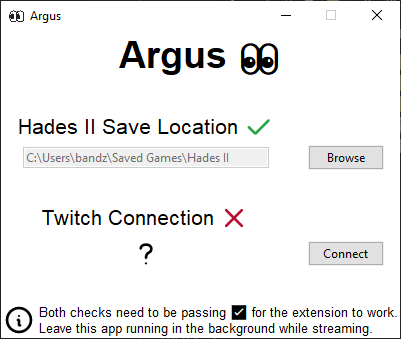
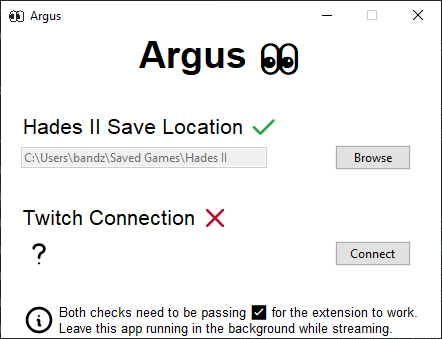
Preparing everything for installer. Slight GUI refactor

diff --git a/src/argus_gui.py b/src/argus_gui.py
@@ -75,7 +75,7 @@ def update_twitch_connection(success, argus_token, profile_pic):
         argus_gui_components.twitch_connect_label.config(
             image=argus_gui_components.x_icon, text="Twitch Connection"
         )
-        argus_gui_components.twitch_connect_button.config(text="Connect")
+        # argus_gui_components.twitch_connect_button.config(text="Connect")
         argus_observing.unset_argus_token()
 
 
@@ -146,26 +146,30 @@ def make_main_gui():
     argus_gui_components.root.rowconfigure(1, minsize=30)
 
     # save path text
-    argus_gui_components.save_path_label.grid(row=2, column=0)
+    argus_gui_components.save_path_label.grid(
+        row=2, column=0, columnspan=2, sticky="W", padx=20
+    )
 
     # save path inputs
-    argus_gui_components.save_path_entry.grid(row=3, column=0)
+    argus_gui_components.save_path_entry.grid(row=3, column=0, sticky="W", padx=20)
     check_save_location()
     argus_gui_components.save_path_browse_button.config(command=browse_save_location)
-    argus_gui_components.save_path_browse_button.grid(row=3, column=1)
+    argus_gui_components.save_path_browse_button.grid(row=3, column=1, padx=20)
 
     # empty row as a separator
     argus_gui_components.root.rowconfigure(4, minsize=30)
 
     # twitch connect text
-    argus_gui_components.twitch_connect_label.grid(row=5, column=0)
+    argus_gui_components.twitch_connect_label.grid(
+        row=5, column=0, columnspan=2, sticky="W", padx=20
+    )
 
     # twitch connect inputs
-    argus_gui_components.twitch_profile_label.grid(row=6, column=0)
+    argus_gui_components.twitch_profile_label.grid(row=6, column=0, sticky="W", padx=20)
     argus_gui_components.twitch_connect_button.config(
         command=async_handler(perform_twitch_connection)
     )
-    argus_gui_components.twitch_connect_button.grid(row=6, column=1)
+    argus_gui_components.twitch_connect_button.grid(row=6, column=1, padx=20)
 
     # empty row as a separator
     argus_gui_components.root.rowconfigure(7, minsize=30)
@@ -205,6 +209,7 @@ def make_update_gui(changelog):
 def open_update_page():
     update_page = "https://github.com/bmilojkovic/argus-h2-app/releases"
     webbrowser.open(update_page)
+    argus_gui_components.root.destroy()
 
 
 def perform_quit():

diff --git a/src/argus_gui_components.py b/src/argus_gui_components.py
@@ -80,6 +80,7 @@ twitch_connect_label = ttk.Label(
     image=question_icon,
     font=("Helvetica", 16),
     text="Twitch Connection: Checking...",
+    width=len("Twitch Connection: Checking..."),
     compound=tk.RIGHT,
     background="white",
 )

diff --git a/doc/TECH_README.md b/doc/TECH_README.md
@@ -7,8 +7,8 @@ If you wish to dive deeper into how Argus works, you might want to look at two o
 
 The main flow of data from the game to Twitch is as follows:
 
-1. The data is parsed and assembled from a save file.
-2. We parse the raw save data on the app and send the relevant parts of it to our backend service.
+1. The data is read and assembled from a save file.
+2. We parse the raw data on the app and send the relevant parts of it to our backend service.
 3. Our backend service does additional parsing and data transformation to prepare everything for the frontend. It then uses the Twitch pubsub API to broadcast information to viewers.
 4. The Twitch extension receives this broadcast and displays information to viewers.
 
